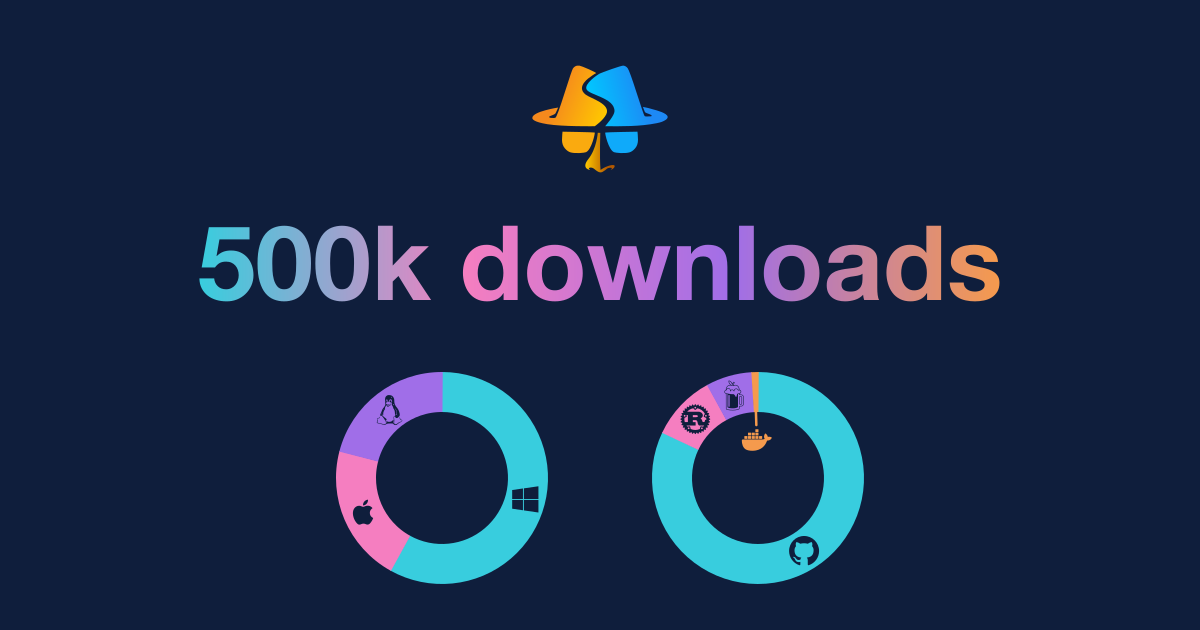
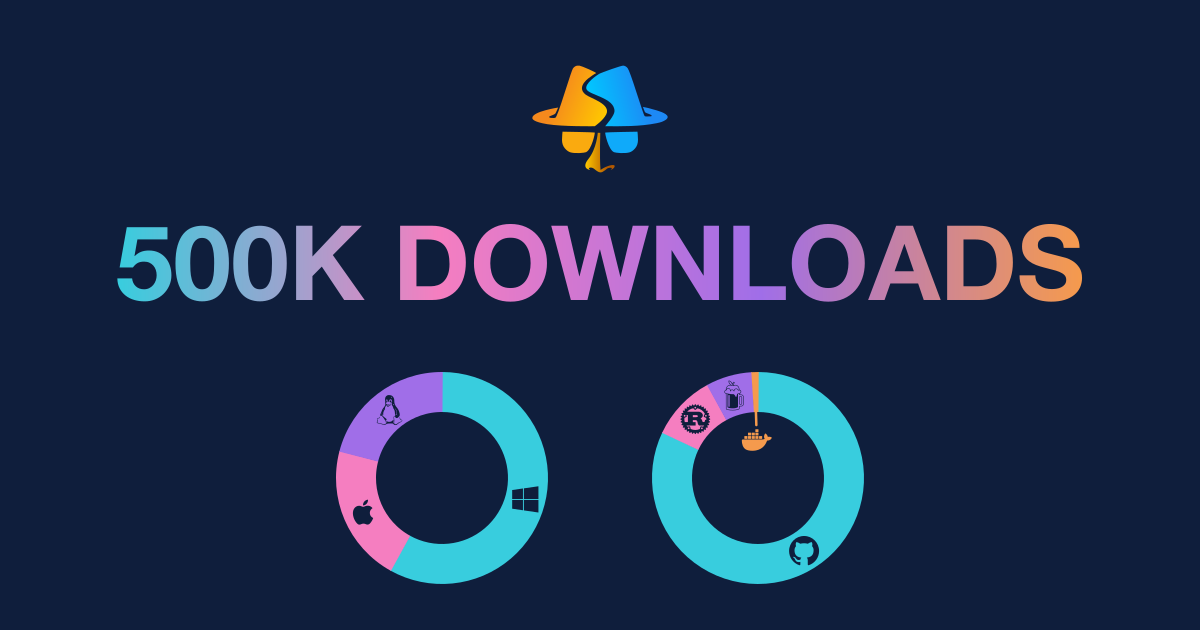
finalizing 500k-downloads post

Changed region(s): [[0.0925, 0.3317, 0.925, 0.4825]]

diff --git a/scripts/gen_cover.py b/scripts/gen_cover.py
@@ -53,7 +53,7 @@ p.append('<defs><linearGradient id="grad" x1="0" y1="0" x2="1" y2="0">'
          '<stop offset="0.667" stop-color="#a06ee8"/><stop offset="1" stop-color="#f59a4d"/>'
          '</linearGradient></defs>')
 p.append(sniffnet_icon(W/2, 44, 150))                      # brand mark, top-center (visible bird ~= caption height)
-p.append(f'<text x="{W/2}" y="300" fill="url(#grad)" font-size="104" font-weight="800" text-anchor="middle">500k downloads</text>')
+p.append(f'<text x="{W/2}" y="300" fill="url(#grad)" font-size="104" font-weight="800" text-anchor="middle">500K DOWNLOADS</text>')
 p.append(donut(442,478,106,40,30,os_seg))                  # two legend-less donuts, generous side margins
 p.append(donut(758,478,106,40,30,src_seg))
 p.append('</svg>')